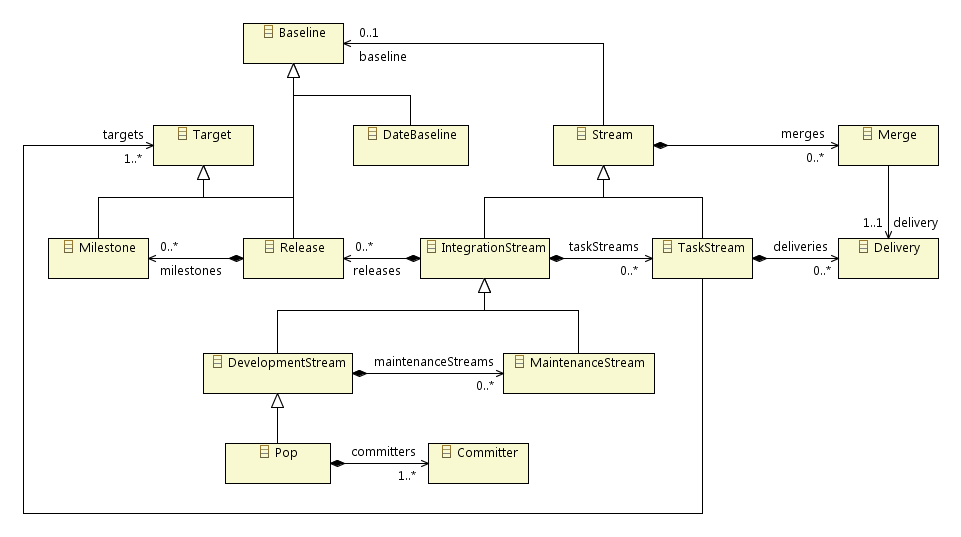
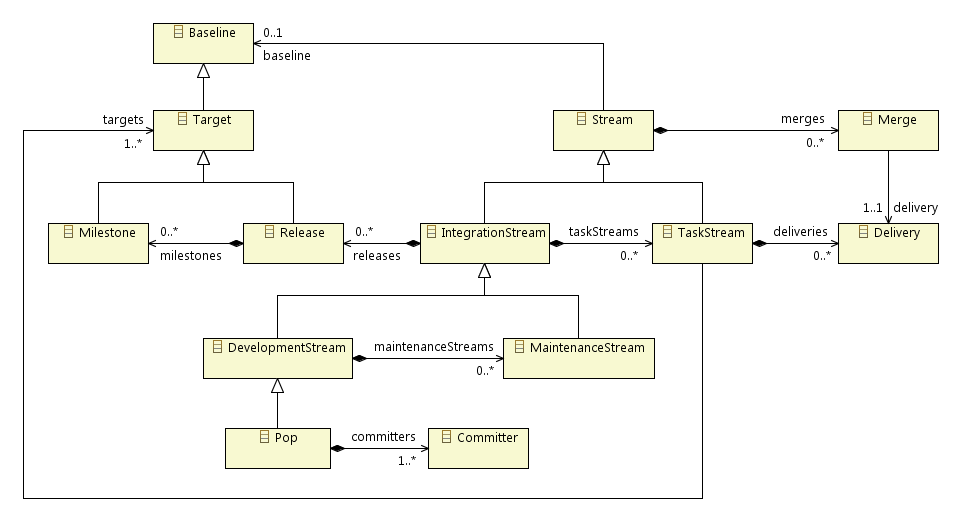
[241121] Develop POP Process Tooling https://bugs.eclipse.org/bugs/show_bug.cgi?id=241121

diff --git a/tooling/org.eclipse.net4j.pop/src/org/eclipse/net4j/internal/pop/code/DefaultCodeStrategy.java b/tooling/org.eclipse.net4j.pop/src/org/eclipse/net4j/internal/pop/code/DefaultCodeStrategy.java
@@ -14,6 +14,7 @@ import org.eclipse.net4j.internal.pop.Baseline;
 import org.eclipse.net4j.internal.pop.util.Element;
 import org.eclipse.net4j.pop.IBaseline;
 import org.eclipse.net4j.pop.IIntegrationStream;
+import org.eclipse.net4j.pop.IStream;
 import org.eclipse.net4j.pop.code.IBranch;
 import org.eclipse.net4j.pop.code.ICodeStrategy;
 import org.eclipse.net4j.pop.code.ITag;
@@ -104,7 +105,7 @@ public class DefaultCodeStrategy extends Element implements ICodeStrategy
     return "task_" + ticket.getID();
   }
 
-  protected String getReleaseTagName(IIntegrationStream stream, IVersion version)
+  protected String getReleaseTagName(IStream stream, IVersion version)
   {
     return "release_" + version.getMajor() + "_" + version.getMinor() + "_" + version.getMicro();
   }

diff --git a/tooling/org.eclipse.net4j.pop/src/org/eclipse/net4j/internal/pop/release/ReleaseProxy.java b/tooling/org.eclipse.net4j.pop/src/org/eclipse/net4j/internal/pop/release/ReleaseProxy.java
@@ -13,8 +13,8 @@ package org.eclipse.net4j.internal.pop.release;
 import org.eclipse.net4j.internal.pop.util.ElementProxy;
 import org.eclipse.net4j.internal.pop.util.IElementProxy;
 import org.eclipse.net4j.internal.pop.util.IElementResolver;
-import org.eclipse.net4j.pop.IIntegrationStream;
 import org.eclipse.net4j.pop.IPop;
+import org.eclipse.net4j.pop.IStream;
 import org.eclipse.net4j.pop.code.ITag;
 import org.eclipse.net4j.pop.release.IMilestone;
 import org.eclipse.net4j.pop.release.IRelease;
@@ -49,7 +49,7 @@ public class ReleaseProxy extends ElementProxy<IRelease> implements IRelease
     return version;
   }
 
-  public IIntegrationStream getStream()
+  public IStream getStream()
   {
     return getElement().getStream();
   }

diff --git a/tooling/org.eclipse.net4j.pop/src/org/eclipse/net4j/pop/release/ITarget.java b/tooling/org.eclipse.net4j.pop/src/org/eclipse/net4j/pop/release/ITarget.java
@@ -10,17 +10,17 @@
  **************************************************************************/
 package org.eclipse.net4j.pop.release;
 
-import org.eclipse.net4j.pop.IIntegrationStream;
+import org.eclipse.net4j.pop.IBaseline;
+import org.eclipse.net4j.pop.IStream;
 import org.eclipse.net4j.pop.code.ITag;
-import org.eclipse.net4j.pop.util.IElement;
 
 /**
  * @author Eike Stepper
  * @noimplement This interface is not intended to be implemented by clients.
  */
-public interface ITarget extends IElement
+public interface ITarget extends IBaseline
 {
-  public IIntegrationStream getStream();
+  public IStream getStream();
 
   public ITag getTag();
 }

diff --git a/tooling/org.eclipse.net4j.pop/src/org/eclipse/net4j/internal/pop/release/Milestone.java b/tooling/org.eclipse.net4j.pop/src/org/eclipse/net4j/internal/pop/release/Milestone.java
@@ -10,7 +10,7 @@
  **************************************************************************/
 package org.eclipse.net4j.internal.pop.release;
 
-import org.eclipse.net4j.pop.IIntegrationStream;
+import org.eclipse.net4j.pop.IStream;
 import org.eclipse.net4j.pop.code.ITag;
 import org.eclipse.net4j.pop.release.IMilestone;
 import org.eclipse.net4j.pop.release.IRelease;
@@ -35,7 +35,7 @@ public class Milestone extends Target implements IMilestone
     this.name = name;
   }
 
-  public IIntegrationStream getStream()
+  public IStream getStream()
   {
     return release.getStream();
   }

diff --git a/tooling/org.eclipse.net4j.pop/src/org/eclipse/net4j/pop/release/IRelease.java b/tooling/org.eclipse.net4j.pop/src/org/eclipse/net4j/pop/release/IRelease.java
@@ -10,13 +10,11 @@
  **************************************************************************/
 package org.eclipse.net4j.pop.release;
 
-import org.eclipse.net4j.pop.IBaseline;
-
 /**
  * @author Eike Stepper
  * @noimplement This interface is not intended to be implemented by clients.
  */
-public interface IRelease extends ITarget, IBaseline
+public interface IRelease extends ITarget
 {
   public IVersion getVersion();
 
